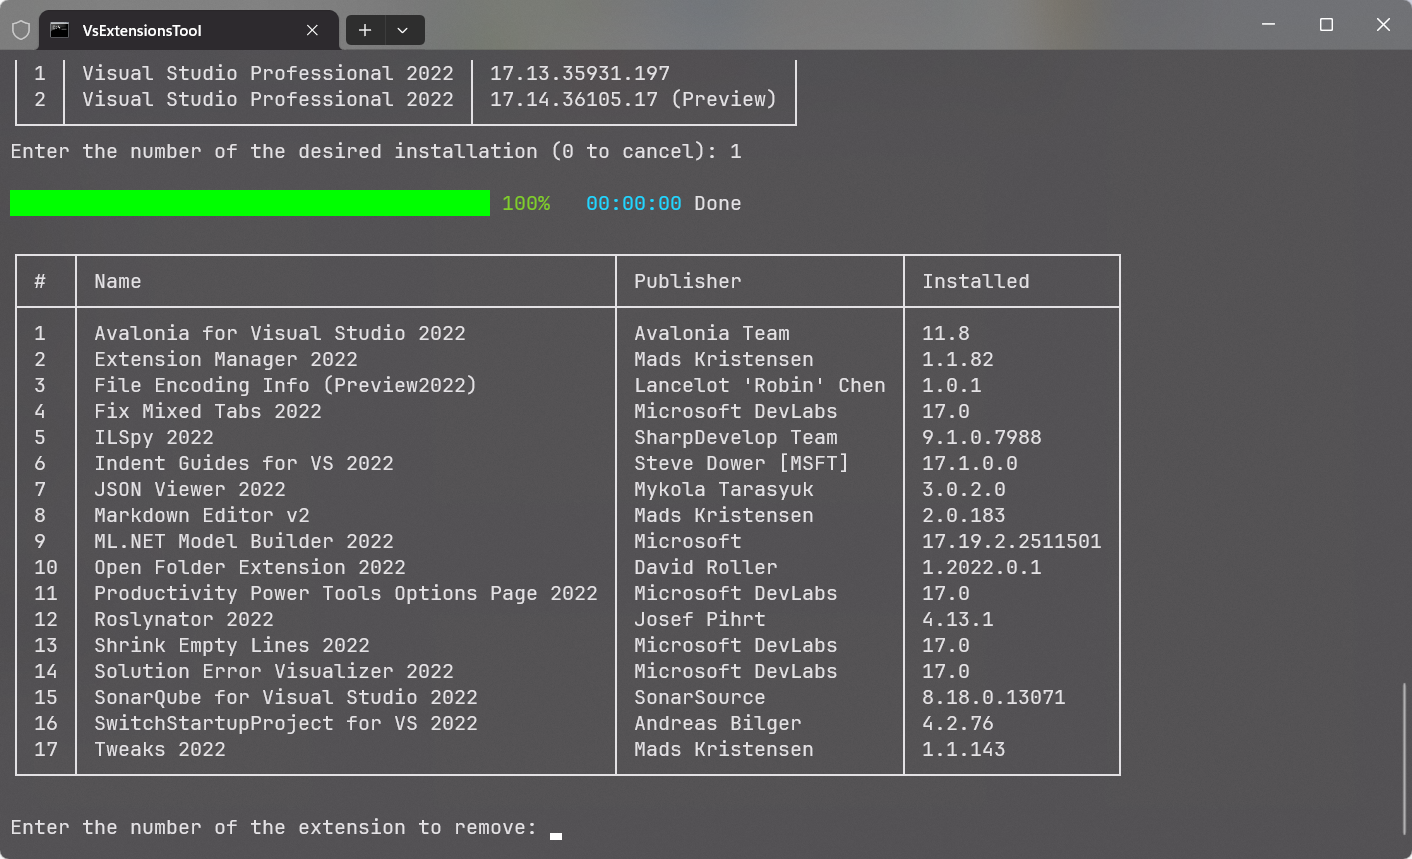
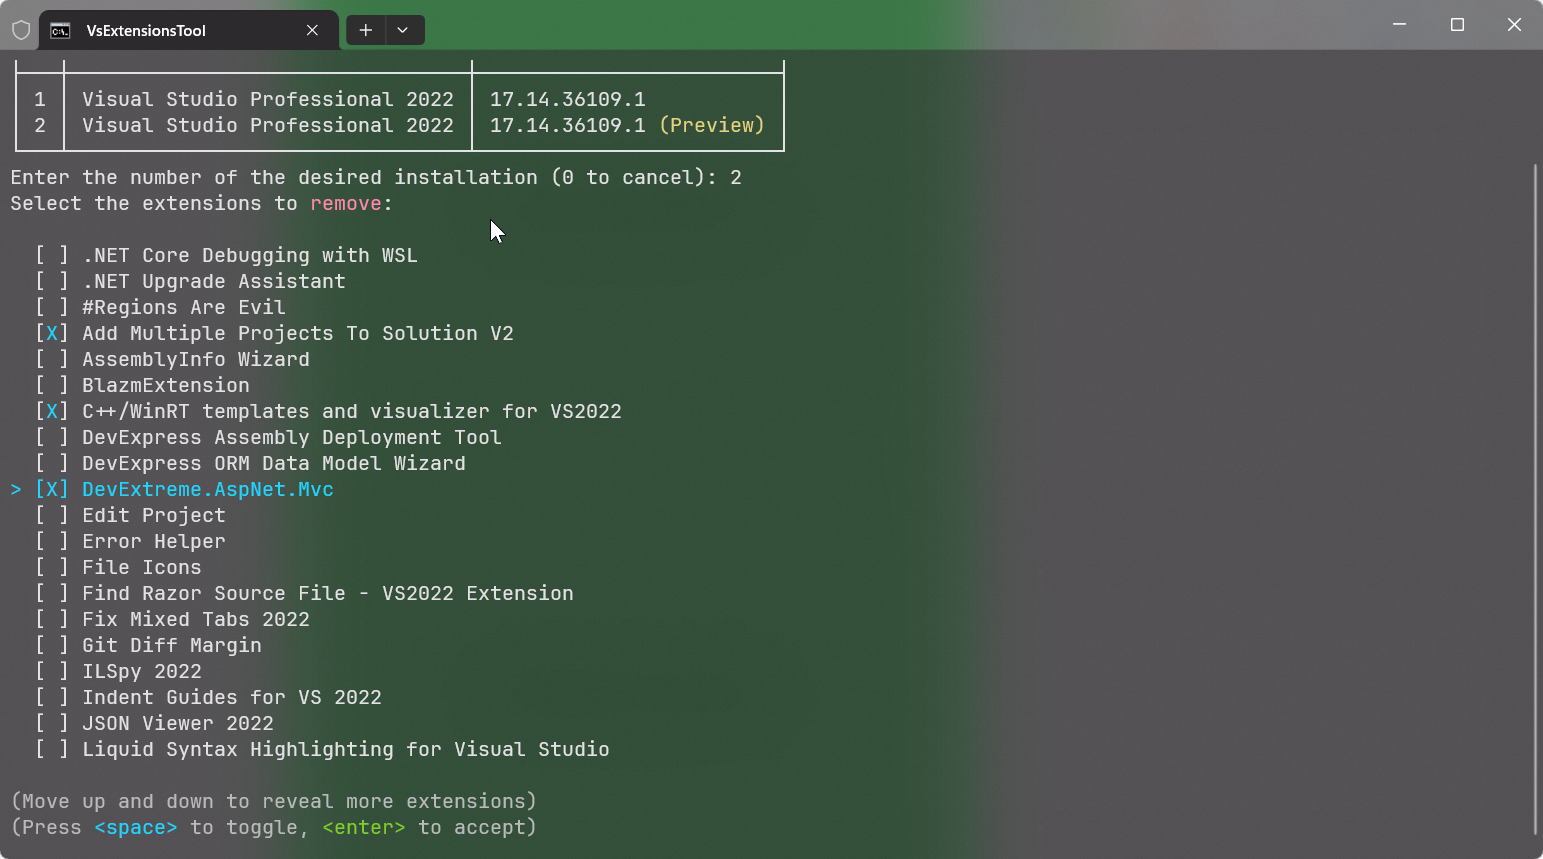
refactor: add support to remove multiple extensions
- Remove unused alias dictionary and add normalization methods for command-line arguments.
- Refactor extension filtering to simplify the population of extensions based on the provided filter directly in the method call.
- Refactor extension removal logic to allow direct removal and implement multi-selection for extension deletion.
- Add instance ID to VSIX installer arguments for targeted installation.
- Add filtering capability to get extensions and modify the extension removal method to include instance ID.
- Modify command line arguments for help and outdated list functionalities in launch settings.
- Downgrade target framework from net10.0 to net9.0.
- Replace the image file with a new version.

diff --git a/Commands/RemoveCommand.cs b/Commands/RemoveCommand.cs
@@ -35,50 +35,58 @@ public sealed class RemoveCommand : ICommand
         var args = context.Args;
         (string id, bool direct, string filter) = ParseArgs(args);
 
-        if (!direct && string.IsNullOrWhiteSpace(id))
+        if (direct && !string.IsNullOrWhiteSpace(id))
         {
-            var listCmd = new ListCommand();
-            var filteredContext = SetListFilteredContext(context, filter);
-            await listCmd.ExecuteAsync(filteredContext).ConfigureAwait(false);
+            context.ExtensionManager.RemoveExtensionById(context.VisualStudioInstance!.InstallationPath!, id, context.VisualStudioInstance!.InstanceId!);
 
-            Console.Write("\nEnter the number of the extension to remove: ");
-            var input = Console.ReadLine();
-
-            if (!int.TryParse(input, out var index))
-            {
-                Console.WriteLine("Invalid number.");
-
-                return;
-            }
-
-            var extensions = listCmd.Extensions;
-
-            if (index < 1 || index > extensions.Count)
-            {
-                Console.WriteLine("Invalid extension number.");
-
-                return;
-            }
-
-            id = extensions[index - 1].Id;
-            Console.WriteLine($"Removing extension \"{extensions[index - 1].Name}\"...");
+            return;
         }
 
-        if (!string.IsNullOrWhiteSpace(id))
-            context.ExtensionManager.RemoveExtensionById(context.VisualStudioInstance!.InstallationPath!, id);
-        else
-            Console.WriteLine("Please provide the Id of the extension to remove.");
-    }
+        var extensions = context.ExtensionManager.GetExtensions(context.VisualStudioInstance!.InstallationPath!, filter);
 
-    private static CommandContext SetListFilteredContext(CommandContext context, string filter)
-    {
-        if (string.IsNullOrWhiteSpace(filter))
-            return context;
+        if (extensions.Count == 0)
+        {
+            AnsiConsole.MarkupLine("[red]No extensions found.[/]");
 
-        var filteredArgs = new[] { "/list", filter };
-        context = new CommandContext(filteredArgs, context.VisualStudioManager, context.ExtensionManager, context.VisualStudioInstance);
+            return;
+        }
 
-        return context;
+        var selected = await AnsiConsole.PromptAsync
+        (
+            new MultiSelectionPrompt<(string Name, string Id)>()
+                .Title("Select the extensions to [red]remove[/]:")
+                .NotRequired()
+                .PageSize(20)
+                .MoreChoicesText("[grey](Move up and down to reveal more extensions)[/]")
+                .InstructionsText("[grey](Press [blue]<space>[/] to toggle, [green]<enter>[/] to accept)[/]")
+                .AddChoices([.. extensions.Select(static e => (e.Name, e.Id))])
+                .UseConverter(static e => e.Name)
+        ).ConfigureAwait(false);
+
+        if (selected.Count == 0)
+        {
+            AnsiConsole.MarkupLine("[yellow]No extensions selected for removal.[/]");
+
+            return;
+        }
+
+        AnsiConsole
+            .Status()
+            .Start
+            (
+                "Removing selected extensions...",
+                ctx =>
+                {
+                    ctx.Spinner(Spinner.Known.Dots2);
+                    ctx.SpinnerStyle(Style.Parse("green"));
+
+                    foreach (var ext in selected)
+                    {
+                        AnsiConsole.MarkupLine($"[yellow]Removing extension:[/] {ext.Name}");
+                        context.ExtensionManager.RemoveExtensionById(context.VisualStudioInstance!.InstallationPath!, ext.Id, context.VisualStudioInstance!.InstanceId!);
+                    }
+                }
+            );
     }
 
     private static (string id, bool direct, string filter) ParseArgs(string[] args)

diff --git a/ExtensionManager.cs b/ExtensionManager.cs
@@ -75,25 +75,44 @@ public sealed class ExtensionManager
     /// Gets all extensions installed for the specified Visual Studio installation.
     /// </summary>
     /// <param name="installationPath">The installation path of Visual Studio.</param>
+    /// <param name="filter">
+    /// An optional filter string to search for extensions by name or Id.
+    /// </param>
     /// <returns>List of ExtensionInfo objects representing each extension.</returns>
-    public List<ExtensionInfo> GetExtensions(string installationPath)
+    public List<ExtensionInfo> GetExtensions(string installationPath, string? filter = null)
     {
         var extensions = new List<ExtensionInfo>();
 
-        foreach (var folder in GetExtensionPaths(installationPath).Where(Directory.Exists))
+        foreach (var dir in GetExtensionPaths(installationPath).Where(Directory.Exists).SelectMany(Directory.GetDirectories))
         {
-            foreach (var dir in Directory.GetDirectories(folder))
-            {
-                var manifestPath = Path.Combine(dir, VSIX_MANIFEST);
+            var manifestPath = Path.Combine(dir, VSIX_MANIFEST);
 
-                if (!File.Exists(manifestPath))
-                    continue;
+            if (!File.Exists(manifestPath))
+                continue;
 
-                var info = ReadManifest(manifestPath);
+            var info = ReadManifest(manifestPath);
 
-                if (info != null)
-                    extensions.Add(info);
-            }
+            if (info != null)
+                extensions.Add(info);
+        }
+
+        if (!string.IsNullOrEmpty(filter))
+        {
+            extensions =
+            [
+                .. extensions.Where
+                (e => e.Name.Contains
+                (
+                    filter,
+                    StringComparison.CurrentCultureIgnoreCase
+                )
+                || e.Id.Contains
+                (
+                    filter,
+                    StringComparison.CurrentCultureIgnoreCase
+                )
+                )
+            ];
         }
 
         return [.. extensions.OrderBy(static e => e.Name, StringComparer.CurrentCultureIgnoreCase)];
@@ -104,7 +123,10 @@ public sealed class ExtensionManager
     /// </summary>
     /// <param name="installationPath">The installation path of Visual Studio.</param>
     /// <param name="id">The Id of the extension to remove.</param>
-    public void RemoveExtensionById(string installationPath, string id)
+    /// <param name="instanceId">
+    /// The instance ID of the Visual Studio installation.
+    /// </param>
+    public void RemoveExtensionById(string installationPath, string id, string instanceId)
     {
         const string VSIX_INSTALLER_RELATIVE_PATH = "Common7/IDE/VSIXInstaller.exe";
         var vsixInstallerPath = Path.Combine(installationPath, VSIX_INSTALLER_RELATIVE_PATH);
@@ -131,7 +153,7 @@ public sealed class ExtensionManager
         process.StartInfo = new ProcessStartInfo
         {
             FileName = vsixInstallerPath,
-            Arguments = $"/uninstall:{extension.Id}",
+            Arguments = $"/uninstall:{extension.Id} /quiet /sp /instanceIds:{instanceId}",
             RedirectStandardOutput = true,
             UseShellExecute = false,
             CreateNoWindow = true

diff --git a/CommandDispatcher.cs b/CommandDispatcher.cs
@@ -7,7 +7,6 @@ public sealed class CommandDispatcher
 {
     private readonly VisualStudioManager _vsManager;
     private readonly ExtensionManager _extManager;
-    private readonly Dictionary<string, string> _aliases;
 
     /// <summary>
     /// Initializes a new instance of the <see cref="CommandDispatcher"/> class.
@@ -16,19 +15,24 @@ public sealed class CommandDispatcher
     {
         _vsManager = vsManager;
         _extManager = extManager;
-
-        _aliases = new Dictionary<string, string>
-        {
-            { "--help", "/help" },
-            { "--list", "/list" },
-            { "--list_vs", "/list_vs" },
-            { "--remove", "/remove" },
-            { "--version", "/version" },
-            { "--outdated", "/outdated" },
-            { "--update", "/update" },
-            { "--id", "/id" }
-        };
     }
+
+    /// <summary>
+    /// Normalizes command-line arguments so that any parameter can be used with '/' or '--'.
+    /// </summary>
+    private static string NormalizeArg(string arg)
+    {
+        if (arg.StartsWith("--", StringComparison.Ordinal))
+            return "/" + arg[2..];
+
+        return arg;
+    }
+
+    /// <summary>
+    /// Returns a list of arguments with both '/' and '--' variants for each parameter.
+    /// </summary>
+    private static string[] NormalizeArgs(string[] args)
+        => [..args.Select(NormalizeArg)];
 
     /// <summary>
     /// Create all available commands.
@@ -78,7 +82,7 @@ public sealed class CommandDispatcher
     {
         try
         {
-            args = [.. args.Select(a => _aliases.GetValueOrDefault(a, a))];
+            args = NormalizeArgs(args);
             var context = new CommandContext(args, _vsManager, _extManager, null);
             var commands = CreateCommands();
             var needsVsInstance = !ICommand.ShowHelp(args) && commands.Any(c => c.CanExecute(context) && c.NeedsVsInstance);

diff --git a/Commands/ListCommand.cs b/Commands/ListCommand.cs
@@ -32,27 +32,7 @@ public sealed class ListCommand : ICommand
     private void PopulateExtensionInfos(CommandContext context)
     {
         var filter = context.Args.Skip(1).FirstOrDefault(static arg => arg != "/version" && arg != "/outdated");
-        _extensions = context.ExtensionManager.GetExtensions(context.VisualStudioInstance!.InstallationPath!);
-
-        if (string.IsNullOrWhiteSpace(filter))
-            return;
-
-        _extensions =
-        [
-            .. _extensions.Where
-            (
-                e => e.Name.Contains
-                (
-                    filter,
-                    StringComparison.CurrentCultureIgnoreCase
-                )
-                || e.Id.Contains
-                (
-                    filter,
-                    StringComparison.CurrentCultureIgnoreCase
-                )
-            )
-        ];
+        _extensions = context.ExtensionManager.GetExtensions(context.VisualStudioInstance!.InstallationPath!, filter);
     }
 
     /// <inheritdoc />
@@ -88,5 +68,5 @@ public sealed class ListCommand : ICommand
 
     /// <inheritdoc />
     public void PrintHelp()
-        => AnsiConsole.WriteLine($"{Name} [<filter>] [/version] [/outdated]   {Description}".EscapeMarkup());
+        => AnsiConsole.MarkupLine($"{Name} [[<filter>]] [[/version]] [[/outdated]]   {Description}");
 }

diff --git a/Commands/UpdateCommand.cs b/Commands/UpdateCommand.cs
@@ -77,6 +77,7 @@ public sealed class UpdateCommand : ICommand
     {
         var tempVsixPath = await DownloadVsixFromMarketplaceAsync(selectedExt).ConfigureAwait(false);
         var vsixInstallerPath = Path.Combine(context.VisualStudioInstance!.InstallationPath!, "Common7", "IDE", "VSIXInstaller.exe");
+        var instanceId = context.VisualStudioInstance.InstanceId!;
 
         if (!File.Exists(vsixInstallerPath))
         {
@@ -95,7 +96,7 @@ public sealed class UpdateCommand : ICommand
                 process.StartInfo = new ProcessStartInfo
                 {
                     FileName = vsixInstallerPath,
-                    Arguments = $"/quiet \"{tempVsixPath}\"",
+                    Arguments = $"/quiet /instanceIds:{instanceId} \"{tempVsixPath}\"",
                     RedirectStandardOutput = true,
                     UseShellExecute = false,
                     CreateNoWindow = true
